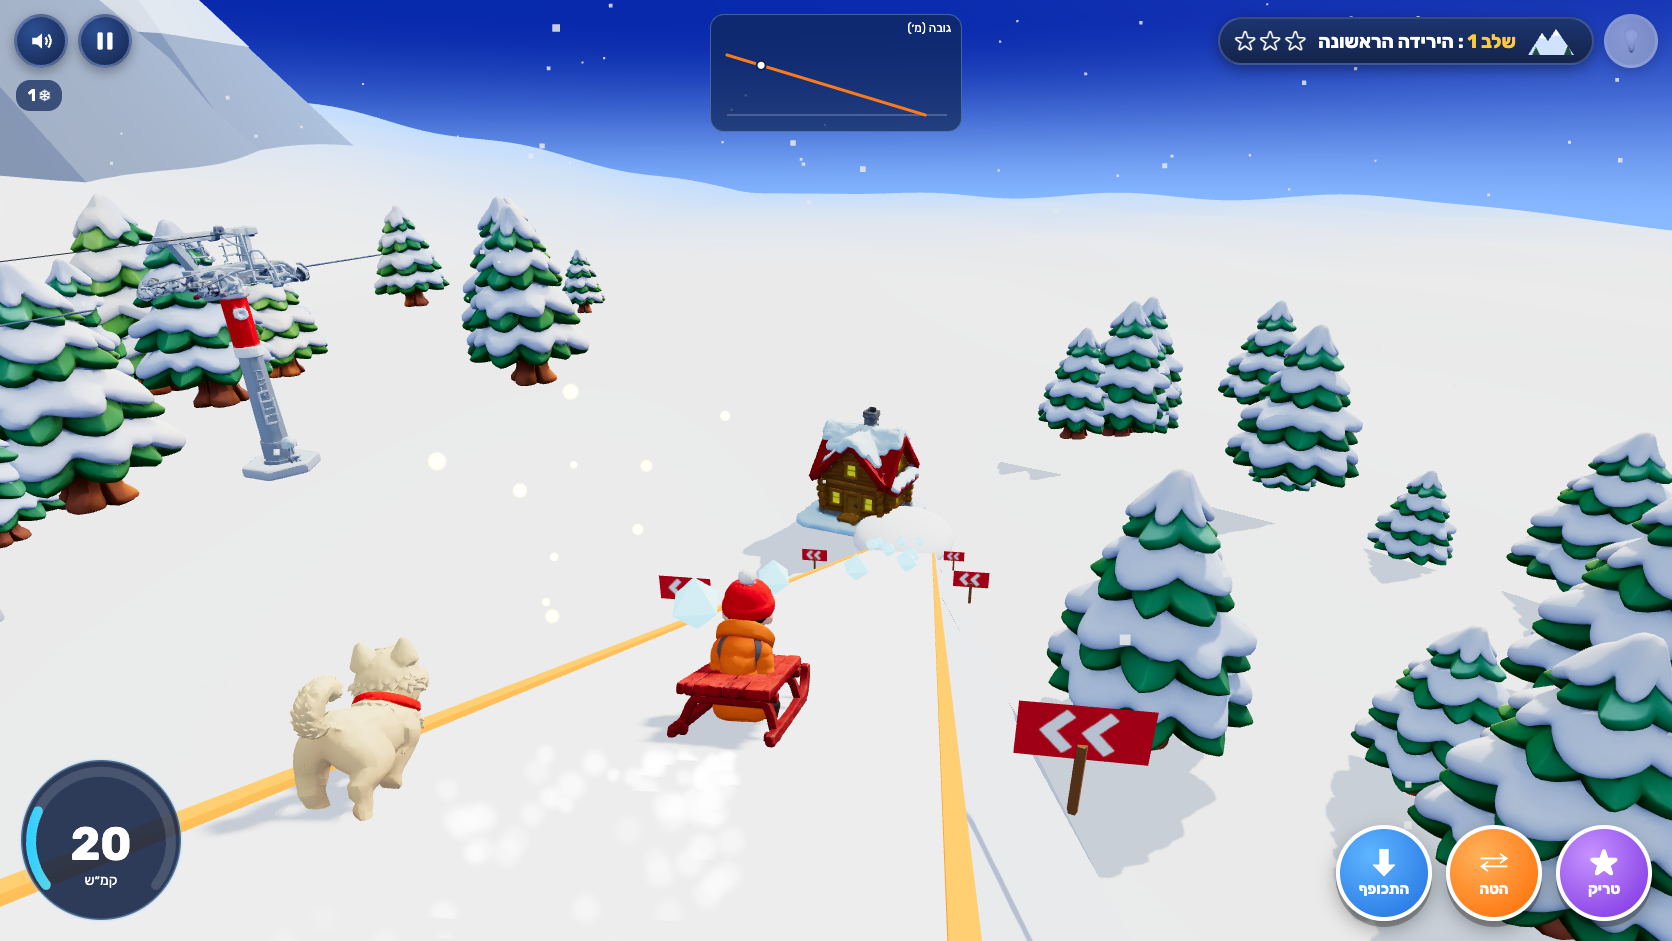
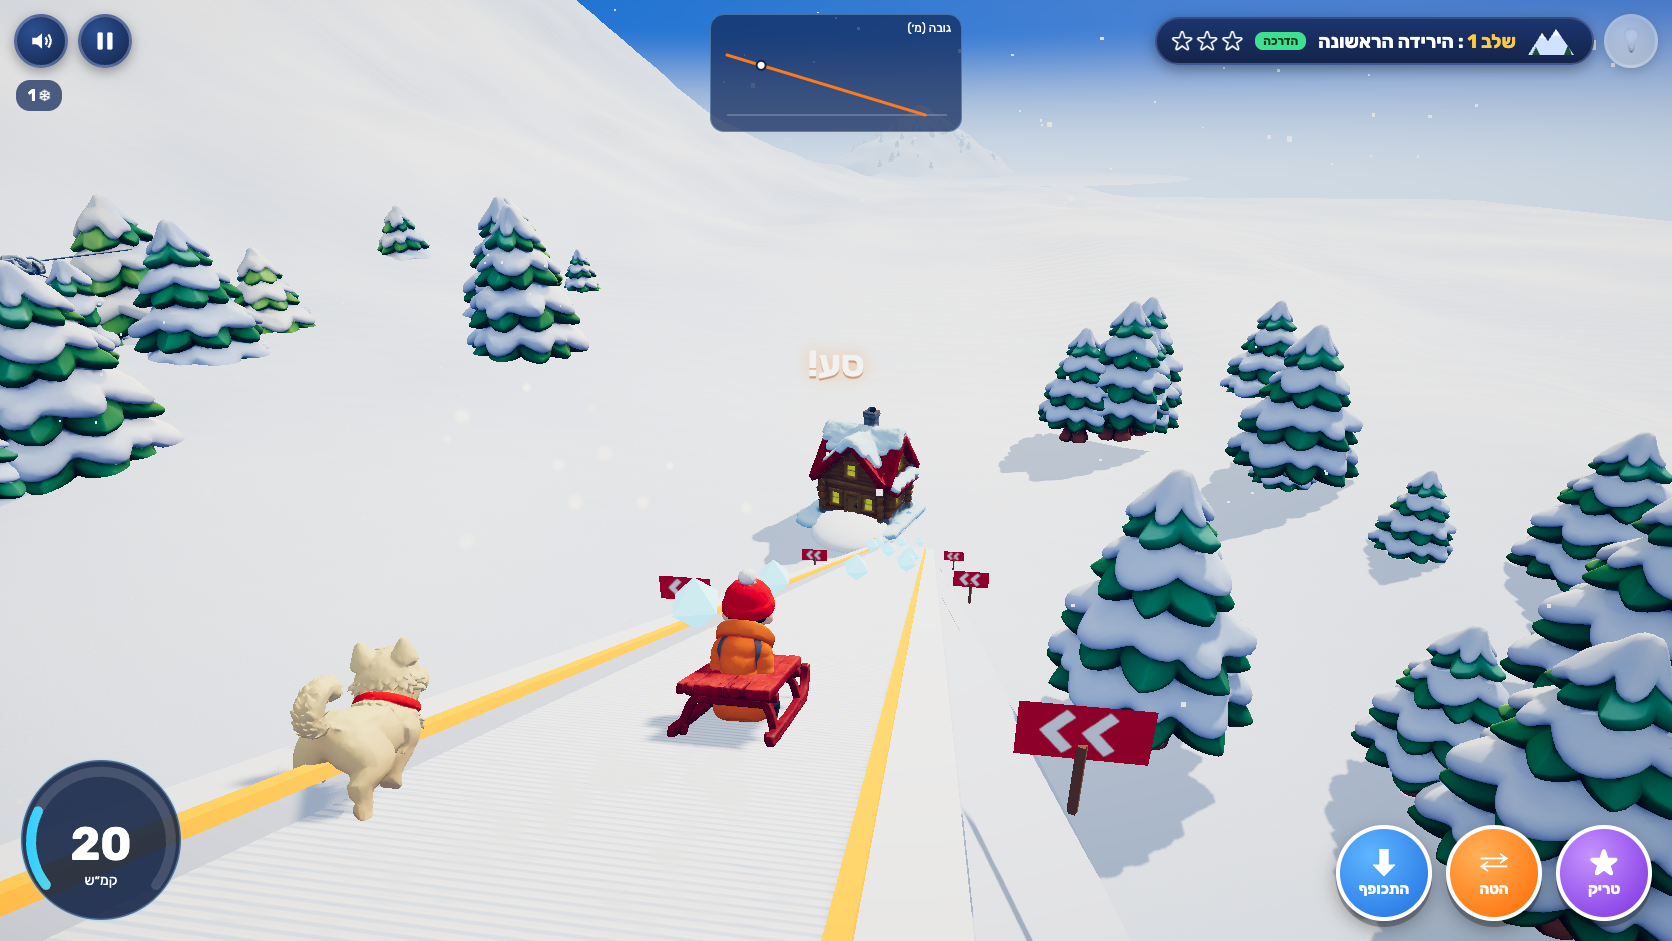
Hut past the cliff board; finish hop lands in the powder beside it; refreshed visual-review captures

diff --git a/src/scene/course.ts b/src/scene/course.ts
@@ -352,18 +352,19 @@ export class Course {
   private buildFinish(): void {
     const f = this.stage.finish;
     const hut = this.assets.hut();
-    hut.position.set(f.x + 4.2, f.y, f.y > 0.3 ? -4.6 : -2.6);
+    // Past the cliff board's right edge (visible while building), beyond where the finish hop lands.
+    hut.position.set(Math.max(f.x + 7.5, this.level.view.x1 + 7.5), f.y, -2.2);
     hut.rotation.y = -0.35;
     this.staticGroup.add(hut);
     if (f.y > 0.3) {
-      const plat = new THREE.Mesh(new THREE.BoxGeometry(12, f.y, 5), this.snowMat);
-      plat.position.set(f.x + 5.5, f.y / 2, -4.6);
+      const plat = new THREE.Mesh(new THREE.BoxGeometry(14, f.y, 10), this.snowMat);
+      plat.position.set(f.x + 6, f.y / 2, -3.5);
       plat.receiveShadow = true;
       this.staticGroup.add(plat);
     }
     const pile = new THREE.Mesh(new THREE.SphereGeometry(2.4, 16, 10, 0, Math.PI * 2, 0, Math.PI / 2), this.snowMat);
-    pile.scale.set(1.2, 0.35, 1.0);
-    pile.position.set(f.x + 2.2, f.y, -3);
+    pile.scale.set(1.6, 0.22, 1.1);
+    pile.position.set(f.x + 3.8, f.y, 0.3);
     this.staticGroup.add(pile);
     const ring = new THREE.Mesh(new THREE.TorusGeometry(0.55, 0.08, 8, 32), new THREE.MeshBasicMaterial({ color: COLORS.gold }));
     ring.position.set(f.x, f.y, GRID_Z + 0.06);

diff --git a/src/game/game.ts b/src/game/game.ts
@@ -463,7 +463,7 @@ export class Game {
     } else if (sim.outcome && sim.done) {
       if (sim.outcome.ok && !this.hopDone && sim.outcome.airTime === 0) {
         // Pop off the kicker at the hut: an air moment (and a trick) on every successful run.
-        this.hop = { t: 0, x: s.x, y: s.y + 0.3, vx: Math.max(4, s.v * Math.cos(s.angle)), vy: Math.max(4.2, s.v * 0.32), landY: this.stage.finish.y };
+        this.hop = { t: 0, x: s.x, y: s.y + 0.3, vx: Math.min(5, Math.max(3.5, s.v * Math.cos(s.angle))), vy: Math.max(4.4, Math.min(6, s.v * 0.35)), landY: this.stage.finish.y };
         this.sound.whoosh();
         return;
       }
